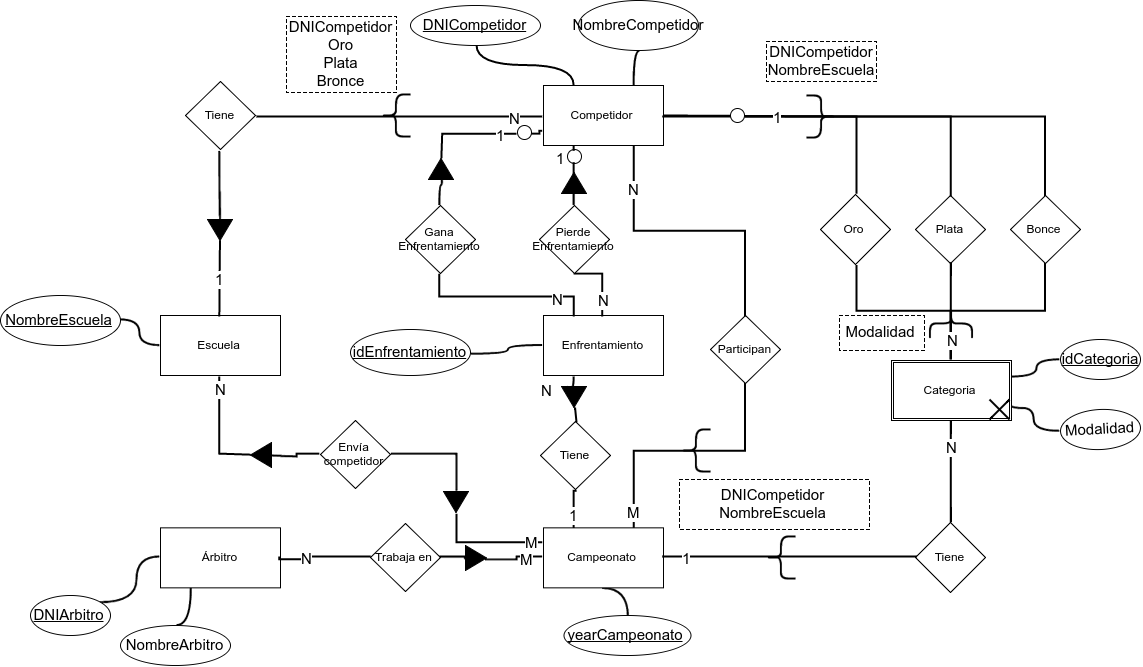
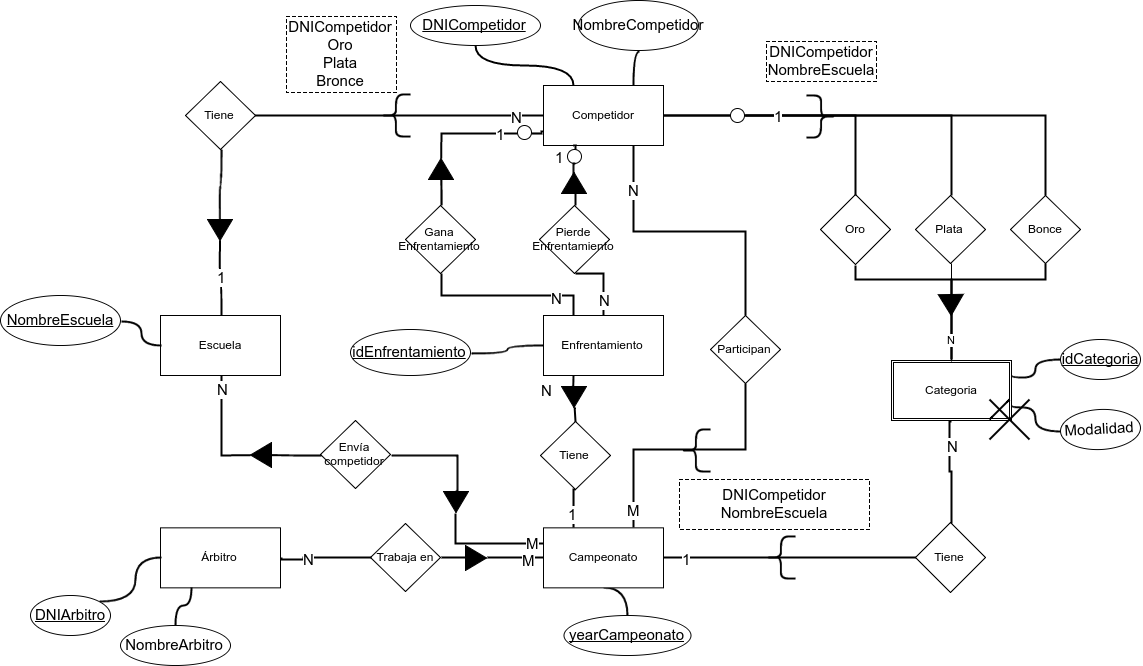
Detalles consultas informe

diff --git a/latex/DID.tex b/latex/DID.tex
@@ -7,8 +7,8 @@ anterior.
   \caption{Diagrama entidad relación}
 \end{figure}
 
-A continuación mostraremos la forma en la que se resolvieron las consultas pedidas y como las decisiones tomadas las
-optimizan.
+A continuación mostraremos la forma en la que se resolvieron las consultas pedidas y justificaremos como las decisiones
+tomadas las optimizan.
 
 \subsection{Consultas}
 \begin{enumerate}
@@ -16,14 +16,14 @@ optimizan.
 el año del campeonato. Para resolver la consulta, recorremos todos los enfrentamientos. Contamos la cantidad de
 enfrentamientos ganados para cada competidor que coincidan con el año del campeonato. Esto lo podemos realizar de forma optima
 ya que el enfrentamiento referencia a campeonato, por lo tanto tiene el año del campeonato. Además referencia al ganador y al
-perdedor, por lo tanto puede usarlos para contar la cantidad de victorias por cada competidor. 
+perdedor, por lo tanto puede usarlos para contar la cantidad de victorias por cada competidor.
 
 \item La cantidad de medallas por nombre de escuela en toda la historia. Se nos da el NombreEscuela, que es la clave primaria de Escuela.
-Buscamos por este nombre hasta posicionarnos en la escuela pedida. Recorro la ListaCompetidores. Para cada competidor, realizo la suma de las medallas de los
-tres tipos(oro, plata y bronce). Existen dos procesos en esta consulta. El primero es la búsqueda en el documento Escuela
-usando el NombreEscuela. Esta consulta es inevitable dado que necesitamos de la entrada de la escuela pedida para obtener
-los demás datos. La segunda parte consiste en realizar la suma de todas las medallas de todas las entradas de
-competidores. Esta segunda parte se beneficia del hecho de que posee ListaCompetidores gracias a que se tomo la decisión
+Buscamos por este nombre hasta posicionarnos en la escuela pedida. Recorro la ListaCompetidores. Para cada competidor, realizo la suma de
+las medallas de los tres tipos(oro, plata y bronce). Existen dos procesos en esta consulta. El primero es la búsqueda en
+el documento Escuela usando el NombreEscuela. Esta consulta es inevitable dado que necesitamos de la entrada de la escuela
+pedida para obtener los demás datos. La segunda parte consiste en realizar la suma de todas las medallas de todas las entradas
+de competidores. Esta segunda parte se beneficia del hecho de que posee ListaCompetidores gracias a que se tomo la decisión
 embebido parcialmente a los competidores en el documento Escuela.
 
 \item Para cada escuela, el campeonato donde ganó más medalla. Para realizar la consulta recorro el conjunto de
@@ -40,14 +40,16 @@ Podemos realizar esto gracias a ListaCampeonatos, la cual obtenemos gracias a qu
 al documento Campeonato.
 
 \item Las escuelas que han presentado el mayor número de competidores en cada campeonato. Recorro el conjunto de documentos
-Campeonato y para cada uno recorro su ListaEscuela y para cada NombreEscuela veo cuales de la ListaCompetidores son de esa
-Escuela. La consulta es optimizada debido a que los Campeonatos tienen referencias de los documentos Escuela y embebido parcialmente
-a Competidor por el atributo NombreEscuela. Con lo cual, no se necesita acceder a otro documento que no sean todas las
-entradas de Campeonatos. Esto último es necesario ya que necesitamos información de todos.
+Campeonato y para cada uno recorro su ListaCompetidores y cuento, por cada NombreEscuela, la cantidad de competidores.
+La consulta es optimizada debido a que los Campeonatos tiene embebido parcialmente a Competidor por el atributo
+NombreEscuela. Con lo cual, no se necesita acceder a otro documento que no sean todas las entradas de Campeonatos.
+Esto último es necesario ya que necesitamos información de todos los Cameponatos para encontrar a las escuelas en las
+que más competidores participaron.
 
-\item Obtener los competidores que más medallas obtuvieron por modalidad. Por cada entrada de el documento Competidor,
-cuento las medallas de cada tipo que coinciden con la modalidad pedida. Después me quedo con los competidores que más entradas
-totales tienen. Esta consulta se beneficia de que el Competidor tiene embebido el documento Categoría. Por lo tanto, no es
-necesario acceder a ningún otro documento que no sea Competidor.
+\item Obtener los competidores que más medallas obtuvieron por modalidad. Por cada entrada de el documento Campeonato,
+cuento las medallas de cada tipo que coinciden con cada modalidad. Después me quedo con el DNICompetidor a los cuales
+son ganadores de más medallaes de cada tipo. Esta consulta se beneficia de que el CompCampeonatoetidor tiene embebido
+el documento Categoría. Por lo tanto, no es necesario acceder a ningún otro documento que no sea Campeonato. Desde el embebido
+ de Categoria obtengo los DNS's de los competidores que resultaron ganadores.
 
 \end{enumerate}

diff --git a/latex/DER.tex b/latex/DER.tex
@@ -20,8 +20,9 @@ traduce en enfrentamientos entre dos competidores. Por lo tanto, el campeonato t
 el campeonato registra a los competidores que participan de los enfrentamientos. Como los competidores provienen de
 diversas escuelas.\\
 
-Cada categoría es identificada con el año del campeonato al que pertenece. Existen tres tipos de medallas por categoría:
-oro, plata y bronce. Estas medallas son ganadas por los competidores de los enfrentamientos de esa categoría.\\
+Cada categoría es identificada con un idCategoria. Además cada una tiene una modalidad, las cuales pueden ser
+Combate, Formas o Rotura. Existen tres tipos de medallas por categoría: oro, plata y bronce. Estas medallas son ganadas
+por los competidores de los enfrentamientos de esa categoría.\\
 
 Los competidores tienen como clave primaria su DNI y poseen un nombre. Los competidores representan a una sola escuela en
 los campeonatos. A la vez, pueden haber participado en varios campeonatos. Dado que cada competidor puede participar
